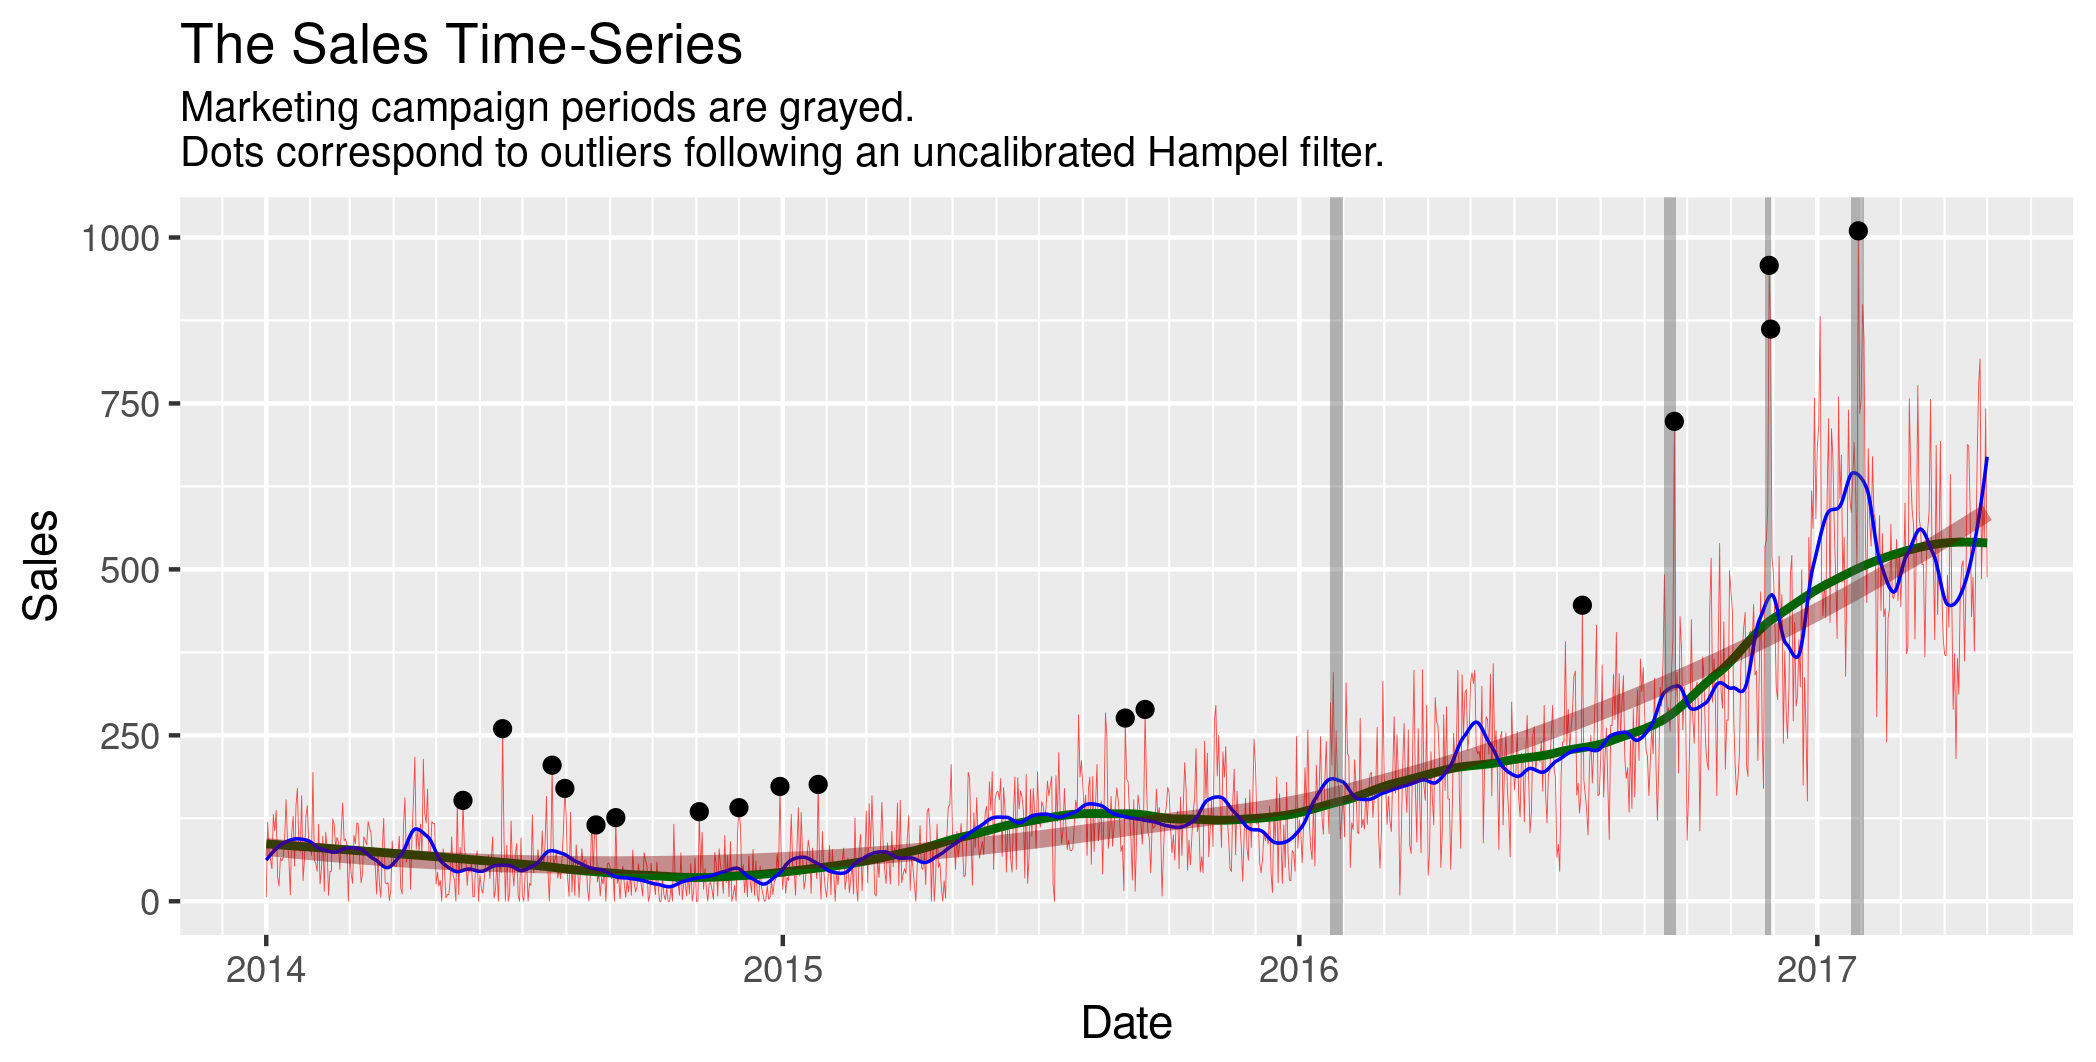
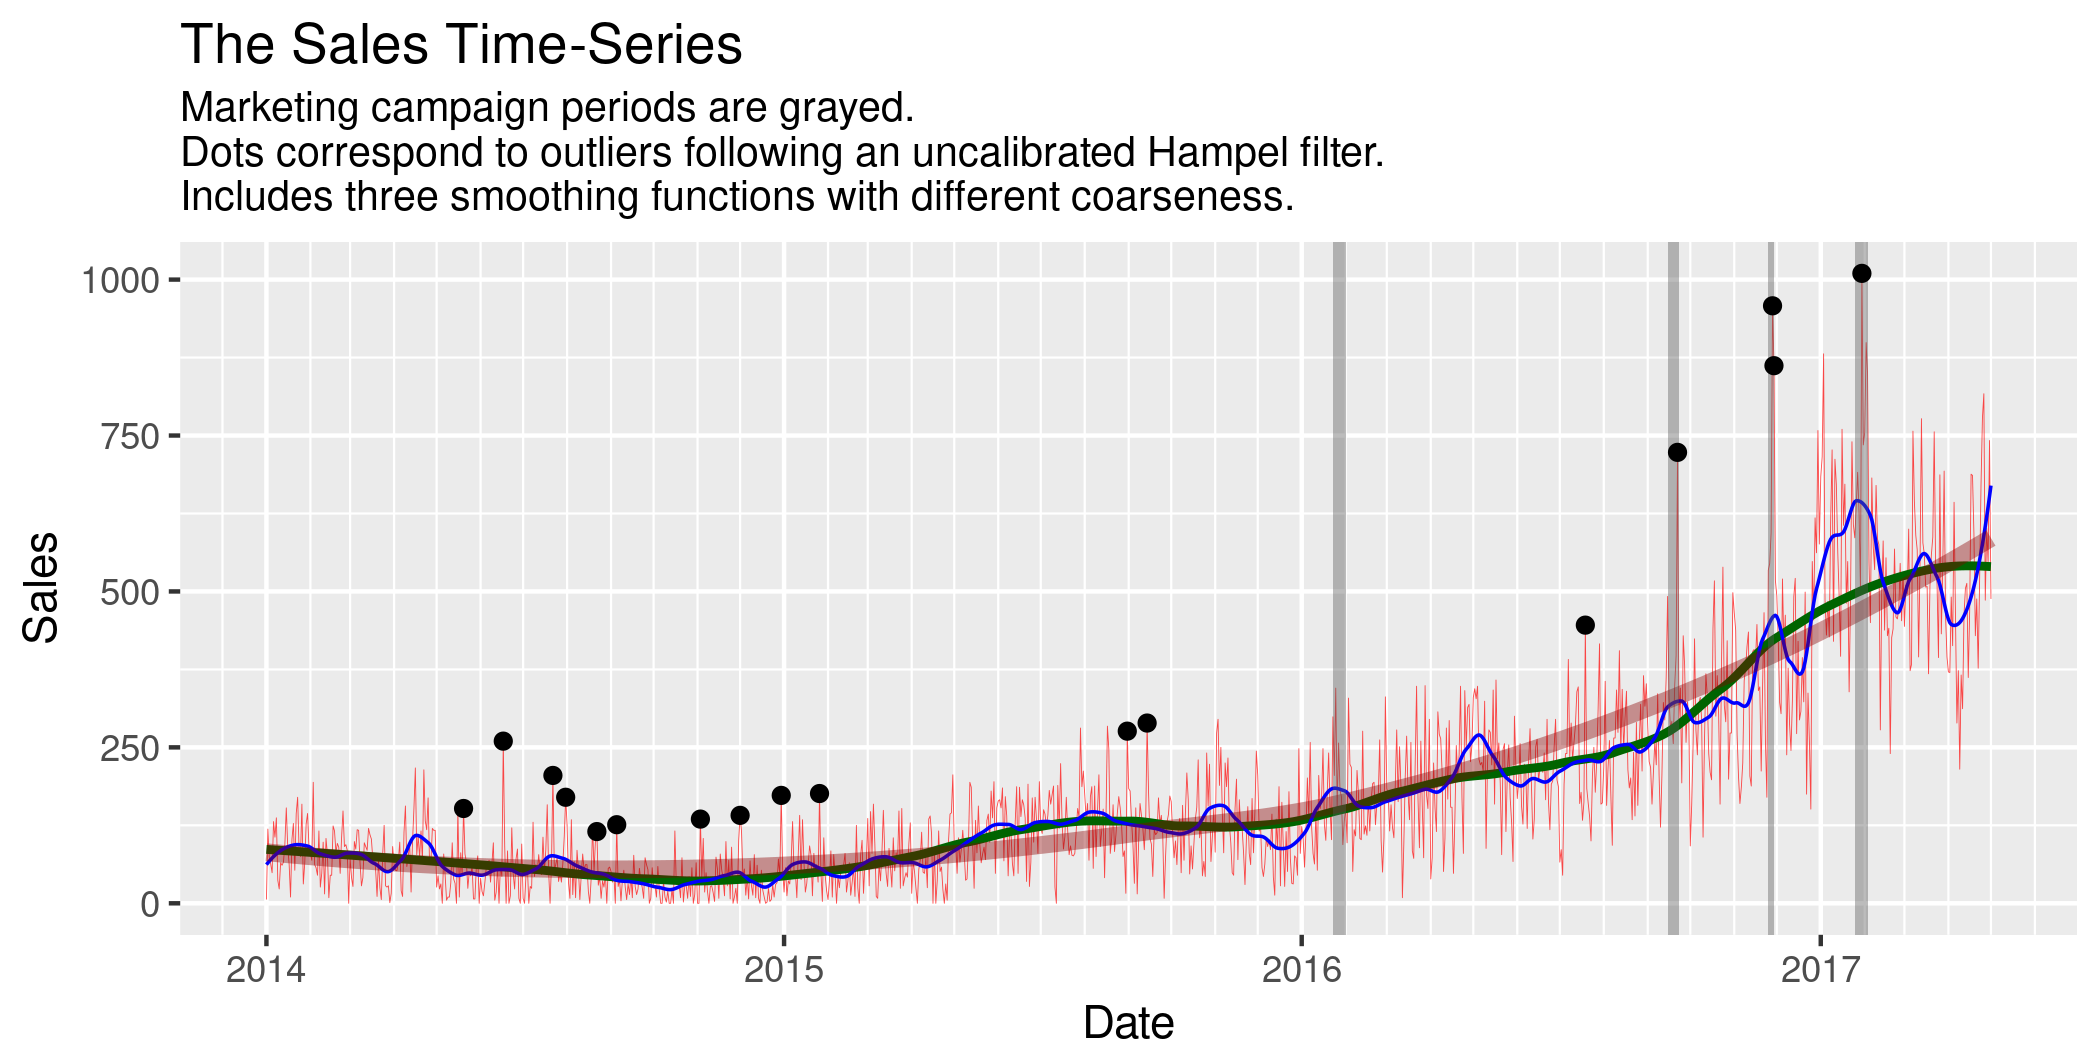
update

diff --git a/R_Forecasting_with_ARMAX/README.md b/R_Forecasting_with_ARMAX/README.md
@@ -204,7 +204,7 @@ figure <- ggplot(DT) +
     geom_rect(data = campaign.dates, aes(xmin = campaign.start, xmax = campaign.end, ymin = -Inf, ymax = Inf), alpha = 0.4) +
     geom_point(aes(x = date, y = outliers.NAs)) +
     labs(title = 'The Sales Time-Series',
-         subtitle = 'Marketing campaign periods are grayed. \nDots correspond to outliers following an uncalibrated Hampel filter.',
+         subtitle = 'Marketing campaign periods are grayed. \nDots correspond to outliers following an uncalibrated Hampel filter.\nIncludes three smoothing functions with different coarseness.',
          y = 'Sales',
          x = 'Date') + 
     list()
